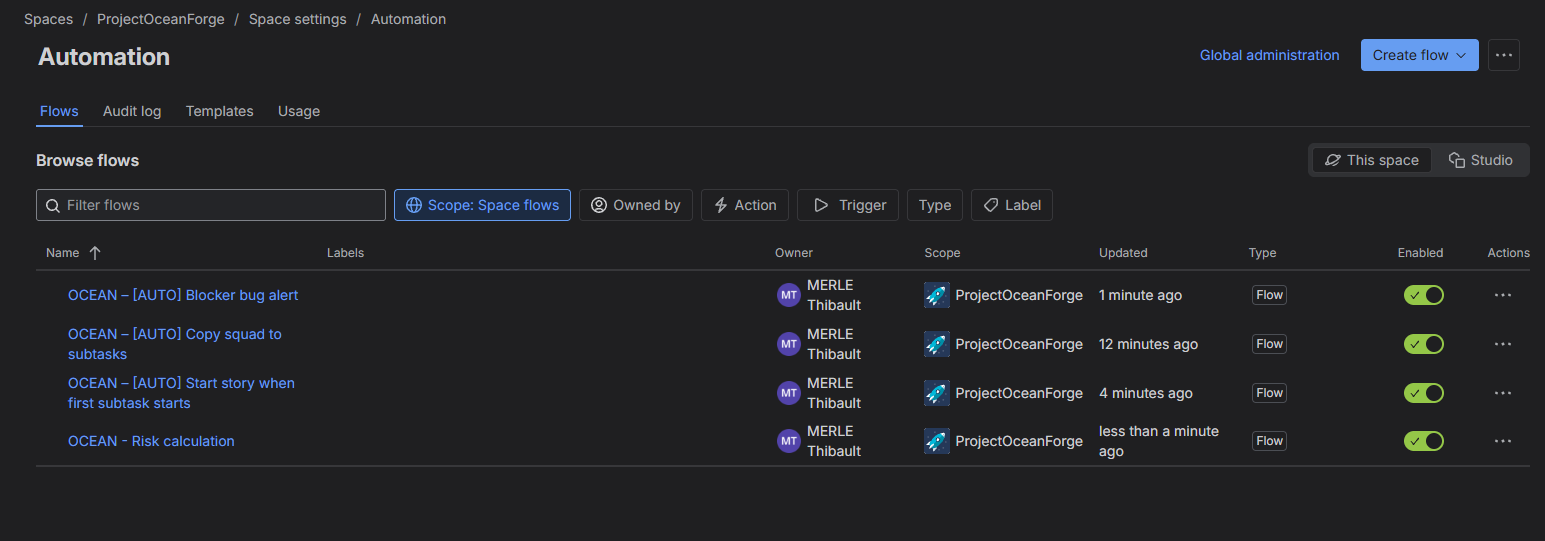
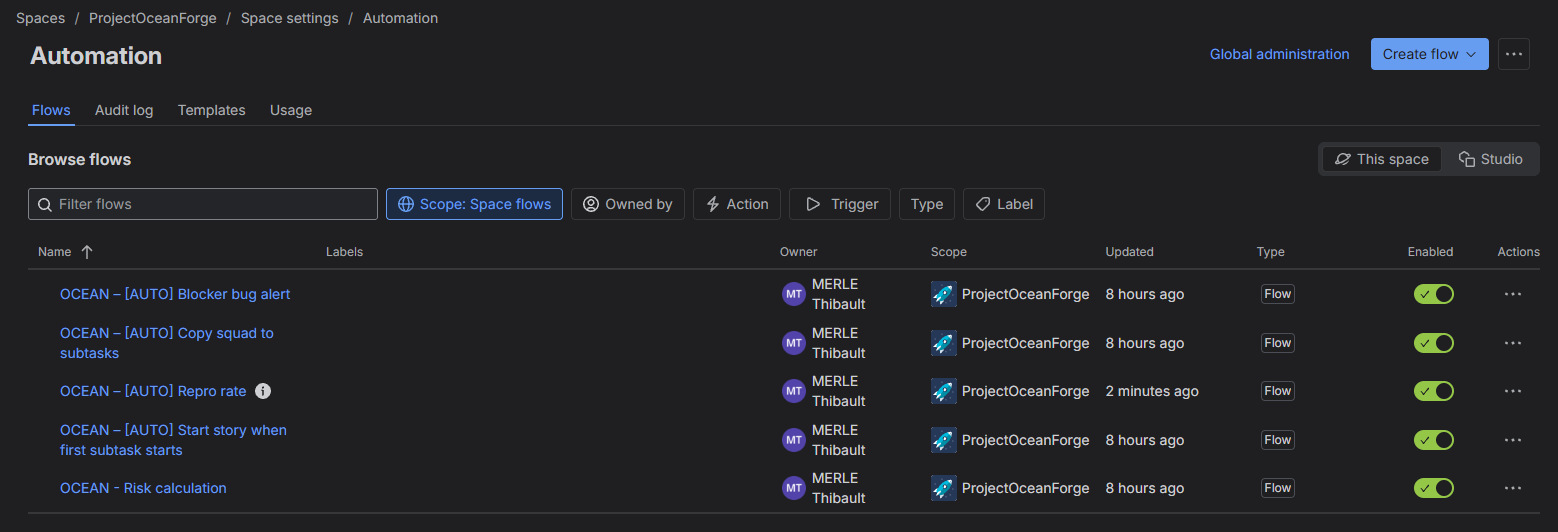
Projet Jira : règle du taux de reproduction (likelihood automatique) dans les bugs et les automatisations, schéma à cinq règles, nouvelle capture de la bibliothèque des flows
Claude-Session: https://claude.ai/code/session_01QtLoCRjyjnrE9a4PUV17cc

diff --git a/js/contenu.js b/js/contenu.js
@@ -318,6 +318,9 @@ const PROJECTS_FR = {
               T("Pour le producer, le ticket sépare aussi la **sévérité** de la **priorité**. La sévérité dit à quel point le jeu est cassé, la priorité dit dans quel ordre on corrige : un bug peut être grave mais rare, ou bénin mais permanent, et c'est au producer d'arbitrer entre les deux. Avec le responsable, que Jira affiche, on voit d'un coup d'œil **ce qui est cassé, à quel point, qui s'en charge et pour quelle version**.")
             ],[ IMG("images/jira-ticket-bug.png","Un bug bloquant reproduit 8 fois sur 10 : build, versions, sévérité, priorité, taux de reproduction et responsable") ]),
             LIGNE([
+              T("Le likelihood, lui, n'est plus choisi à l'œil : choisi ainsi, il pouvait varier d'un testeur à l'autre pour un même bug. Une **automatisation** le déduit désormais du taux de reproduction. Dès que le nombre d'essais ou d'occurrences change, elle calcule le taux, l'écrit dans le ticket et choisit l'option : **Always à 100 %, Very frequent de 70 à 99 %, Sometimes de 30 à 69 %, Rarely en dessous**. Si les occurrences dépassent les essais, elle laisse le likelihood tel quel et signale l'erreur par un commentaire ; à 0 %, c'est au testeur de trancher. Le bug de la capture précédente, reproduit 8 fois sur 10, passe ainsi automatiquement en Very frequent.")
+            ],[ IMG("images/jira-auto-repro.png","La règle du taux de reproduction : calcul, contrôle des valeurs, puis une branche par option de likelihood") ]),
+            LIGNE([
               T("Sur le board QA, les **swimlanes** sont des requêtes JQL qui rangent les bugs par sévérité, les bloquants en haut, et la carte affiche la priorité. Chaque colonne a **une limite de travail en cours** : quand une colonne déborde, l'équipe finit des bugs avant d'en ouvrir d'autres.")
             ],[ CAROUSEL([["images/jira-board-qa.png","Le board QA-Bugs : une ligne par sévérité"],["images/jira-colonnes-qa.png","Les colonnes et leurs limites de travail en cours"]]) ]),
             LIGNE([
@@ -334,8 +337,8 @@ const PROJECTS_FR = {
           ]),
           BANDE("VII","Automatiser les gestes répétitifs",[
             LIGNE([
-              T("Je voulais aussi apprendre à maîtriser les automatisations, l'un des outils les plus utiles de Jira. Chaque règle suit la même logique : **quand** un événement se produit, **seulement si** une condition est vraie, **alors** une action s'exécute. Une sous-tâche hérite de la squad de sa Story, une Story démarre avec sa première sous-tâche, un bug bloquant déclenche une alerte. La condition rend la règle sûre : sans elle, la règle qui démarre une Story tenterait de la relancer à chaque sous-tâche.")
-            ],[ SCHEMA("autoflow","Quatre règles du space, lues selon la même logique") ]),
+              T("Je voulais aussi apprendre à maîtriser les automatisations, l'un des outils les plus utiles de Jira. Chaque règle suit la même logique : **quand** un événement se produit, **seulement si** une condition est vraie, **alors** une action s'exécute. Une sous-tâche hérite de la squad de sa Story, une Story démarre avec sa première sous-tâche, un bug bloquant déclenche une alerte, et le taux de reproduction d'un bug fixe son likelihood. La condition rend la règle sûre : sans elle, la règle qui démarre une Story tenterait de la relancer à chaque sous-tâche.")
+            ],[ SCHEMA("autoflow","Cinq règles du space, lues selon la même logique") ]),
             LIGNE([
               T("Le **journal d'audit** de chaque règle m'a servi à comprendre ce qui bloquait. Un calcul échouait parce que deux champs du site portaient le même nom : je l'ai corrigé en appelant le mien par son identifiant.")
             ],[ CAROUSEL([["images/jira-automations.png","Les règles actives sur le space"],["images/jira-audit-erreur.png","Le journal d'audit : le calcul du score échoue, l'impact revient vide"],["images/jira-audit-correctif.png","Le déclencheur corrigé : l'impact appelé par son identifiant, cf[10091]"],["images/jira-flow-story.png","Quand une sous-tâche démarre, sa Story passe en cours si elle ne l'est pas déjà"]]) ])
@@ -660,6 +663,9 @@ const PROJECTS_EN = {
               T("For the producer, the ticket also separates **severity** from **priority**. Severity says how broken the game is, priority sets the order in which bugs are fixed: a bug can be severe but rare, or minor but permanent, and it is up to the producer to weigh the two. With the assignee, which Jira displays, you can see at a glance **what is broken, how badly, who is handling it and for which version**.")
             ],[ IMG("images/jira-ticket-bug.png","A blocker bug reproduced 8 times out of 10: build, versions, severity, priority, repro rate and assignee") ]),
             LIGNE([
+              T("Likelihood, for its part, is no longer picked by eye: chosen that way, it could vary from one tester to another for the same bug. An **automation** now derives it from the repro rate. As soon as the number of attempts or occurrences changes, it calculates the rate, writes it into the ticket and picks the option: **Always at 100%, Very frequent from 70 to 99%, Sometimes from 30 to 69%, Rarely below that**. If occurrences exceed attempts, it leaves the likelihood unchanged and flags the error in a comment; at 0%, the decision stays with the tester. The bug in the previous screenshot, reproduced 8 times out of 10, is therefore set to Very frequent automatically.")
+            ],[ IMG("images/jira-auto-repro.png","The repro rate rule: calculation, value check, then one branch per likelihood option") ]),
+            LIGNE([
               T("On the QA board, **swimlanes** are JQL queries that sort bugs by severity, blockers at the top, and the card shows the priority. Each column has **a work-in-progress limit**: when a column overflows, the team finishes bugs before opening new ones.")
             ],[ CAROUSEL([["images/jira-board-qa.png","The QA-Bugs board: one lane per severity"],["images/jira-colonnes-qa.png","The columns and their work-in-progress limits"]]) ]),
             LIGNE([
@@ -676,8 +682,8 @@ const PROJECTS_EN = {
           ]),
           BANDE("VII","Automating the repetitive actions",[
             LIGNE([
-              T("I also wanted to master automations, one of Jira's most useful tools. Every rule follows the same logic: **when** an event happens, **only if** a condition is true, **then** an action runs. A subtask inherits its Story's squad, a Story starts with its first subtask, a blocker bug triggers an alert. The condition is what makes a rule safe: without it, the rule that starts a Story would try to restart it with every subtask.")
-            ],[ SCHEMA("autoflow","Four rules of the space, read with the same logic") ]),
+              T("I also wanted to master automations, one of Jira's most useful tools. Every rule follows the same logic: **when** an event happens, **only if** a condition is true, **then** an action runs. A subtask inherits its Story's squad, a Story starts with its first subtask, a blocker bug triggers an alert, and a bug's repro rate sets its likelihood. The condition is what makes a rule safe: without it, the rule that starts a Story would try to restart it with every subtask.")
+            ],[ SCHEMA("autoflow","Five rules of the space, read with the same logic") ]),
             LIGNE([
               T("Each rule's **audit log** showed me what was going wrong. One calculation failed because two fields on the site had the same name: I fixed it by calling mine by its ID.")
             ],[ CAROUSEL([["images/jira-automations.png","The rules active on the space"],["images/jira-audit-erreur.png","The audit log: the score calculation fails, impact comes back empty"],["images/jira-audit-correctif.png","The fixed trigger: impact called by its ID, cf[10091]"],["images/jira-flow-story.png","When a subtask starts, its Story moves to In Progress if it is not already"]]) ])

diff --git a/js/app.js b/js/app.js
@@ -166,15 +166,16 @@ autoflow(){
   const Rw=[[q("Sous-tâche créée","Subtask created"),q("Type = Sub-task","Type = Sub-task"),q("Squad copiée de la Story","Squad copied from the Story")],
     [q("Sous-tâche passée In Progress","Subtask moved to In Progress"),q("Story parente en To Do","Parent Story in To Do"),q("Story passée In Progress","Story moved to In Progress")],
     [q("Bug créé","Bug created"),q("Highest ou Blocker","Highest or Blocker"),q("Commentaire et e-mail","Comment and email")],
-    [q("Probabilité ou impact modifié","Probability or impact changed"),q("Type = Risk","Type = Risk"),"Risk score = P × I"]];
-  let o=`<svg viewBox="0 0 760 290" xmlns="http://www.w3.org/2000/svg">`;
+    [q("Probabilité ou impact modifié","Probability or impact changed"),q("Type = Risk","Type = Risk"),"Risk score = P × I"],
+    [q("Essais ou occurrences modifiés","Attempts or occurrences changed"),q("Bug avec au moins un essai","Bug with at least one attempt"),q("Repro rate et likelihood","Repro rate and likelihood")]];
+  let o=`<svg viewBox="0 0 760 342" xmlns="http://www.w3.org/2000/svg">`;
   H.forEach((t,i)=>o+=`<text x="${X[i]}" y="22" class="m" font-size="11" letter-spacing="1.2">${t}</text>`);
   Rw.forEach((r,j)=>{const y=36+j*(h+12);
     r.forEach((t,i)=>{o+=i<2?`<rect x="${X[i]}" y="${y}" width="${w}" height="${h}" rx="4" class="ob"/><text x="${X[i]+14}" y="${y+25}" class="t" font-size="12.5">${t}</text>`
       :`<rect x="${X[i]}" y="${y}" width="${w}" height="${h}" rx="4" class="navy"/><text x="${X[i]+14}" y="${y+25}" class="ond" font-size="12.5" font-weight="600">${t}</text>`;
       if(i<2) o+=`<path d="M${X[i]+w} ${y+20}H${X[i+1]-2}" class="axis" fill="none" stroke-width="1.4"/><polygon points="${X[i+1]},${y+20} ${X[i+1]-6},${y+16} ${X[i+1]-6},${y+24}" class="m"/>`;});
   });
-  o+=`<text x="20" y="270" class="m" font-size="12">${q("Aucune règle ne fait passer un ticket en Done : la validation reste une décision humaine.","No rule moves a work item to Done: approval remains a human decision.")}</text></svg>`;
+  o+=`<text x="20" y="322" class="m" font-size="12">${q("Aucune règle ne fait passer un ticket en Done : la validation reste une décision humaine.","No rule moves a work item to Done: approval remains a human decision.")}</text></svg>`;
   return o;
 },
 marche(){

diff --git a/index.html b/index.html
@@ -24,7 +24,7 @@
 <meta property="og:locale" content="fr_FR">
 <meta property="og:locale:alternate" content="en_GB">
 <meta name="twitter:card" content="summary_large_image">
-<link rel="stylesheet" href="css/style.css?v=20261028-1515b">
+<link rel="stylesheet" href="css/style.css?v=20261028-1555">
 </head>
 
 <body>
@@ -39,7 +39,7 @@
   <h2 id="h-legal" class="sr">Informations légales</h2><div class="legal-row" id="legal"></div>
 </div></footer>
 
-<script src="js/contenu.js?v=20261028-1515b"></script>
-<script src="js/app.js?v=20261028-1515b"></script>
+<script src="js/contenu.js?v=20261028-1555"></script>
+<script src="js/app.js?v=20261028-1555"></script>
 </body>
 </html>
